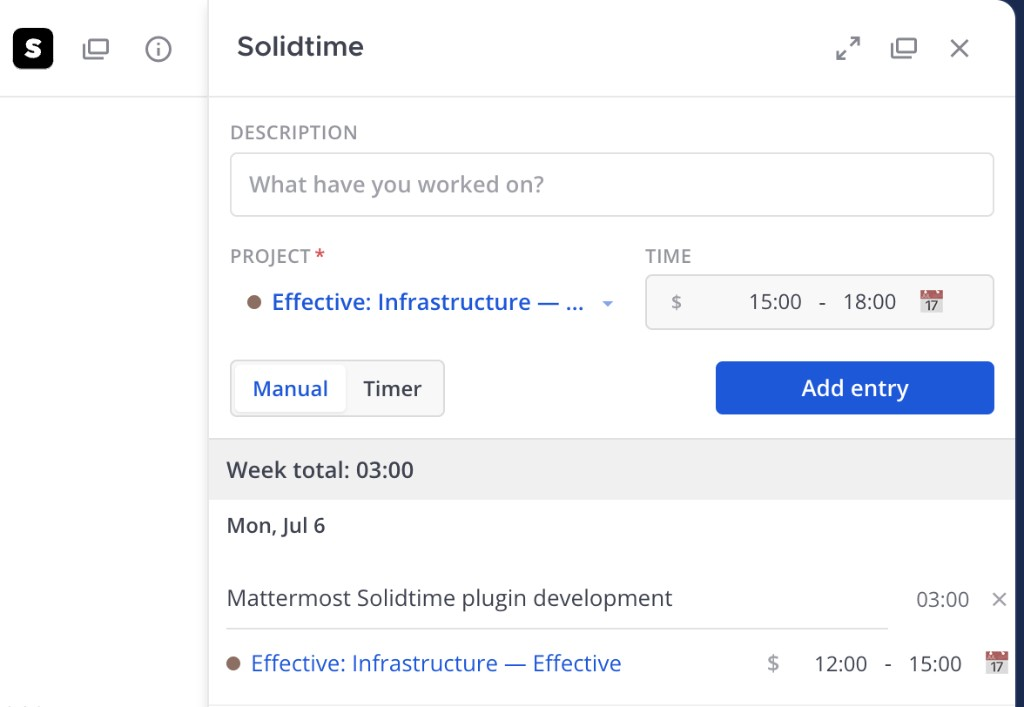
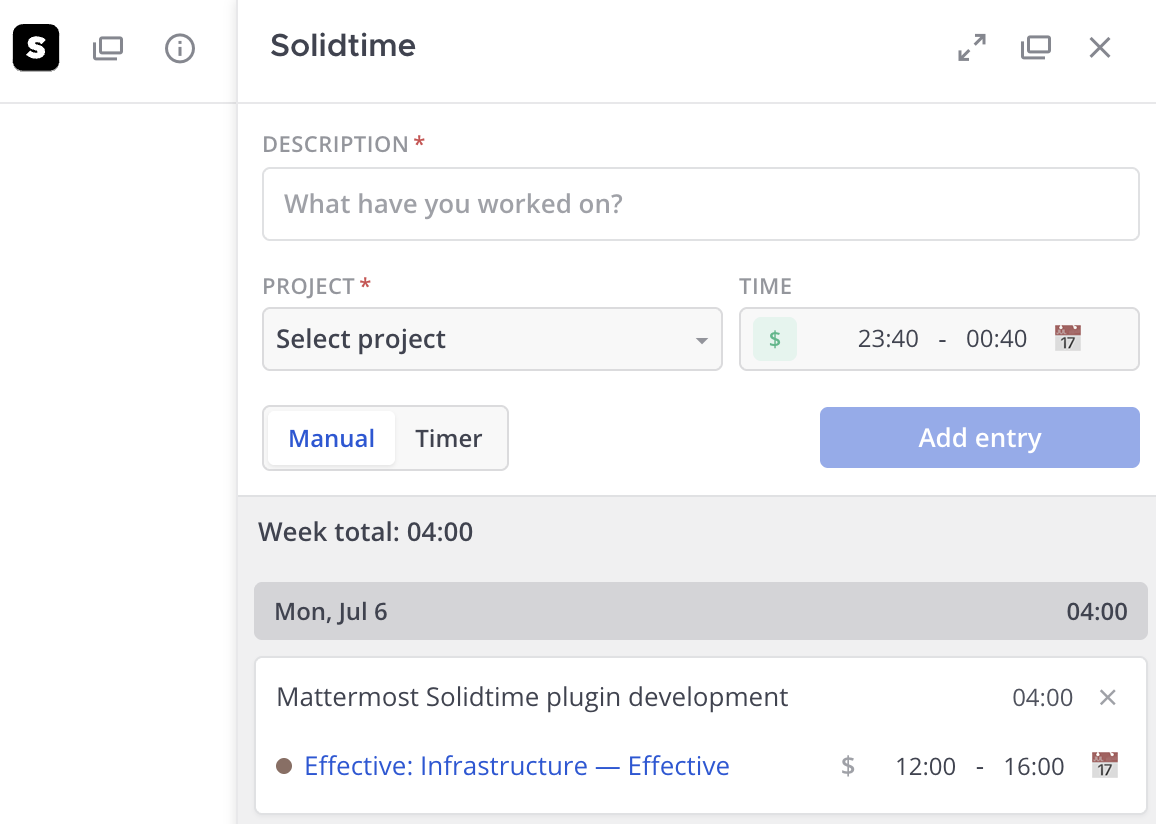
Actualize screenshot

diff --git a/README.md b/README.md
@@ -3,13 +3,7 @@
 A Mattermost plugin for integrating with [Solidtime](https://www.solidtime.io/) — an open-source time tracker for freelancers and agencies. Track time, manage tasks and projects directly from the Mattermost interface.
 
 <p align="center">
-  <img src="assets/screenshot-manual-mode.png" alt="Solidtime RHS — manual time entry with project picker and time range" width="420"/>
-  &nbsp;&nbsp;
-  <img src="assets/screenshot-timer-mode.png" alt="Solidtime RHS — running timer with channel header STOP widget" width="420"/>
-</p>
-
-<p align="center">
-  <em>Manual entry (left) and running timer (right) in the Mattermost right-hand sidebar.</em>
+  <img src="assets/screenshot-manual-mode.png" alt="Solidtime RHS — manual time entry with project picker and time range" width="600"/>
 </p>
 
 ## Features